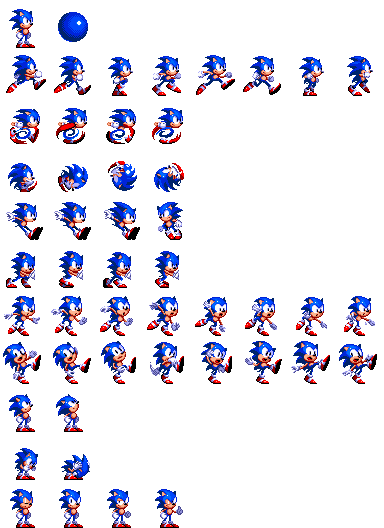
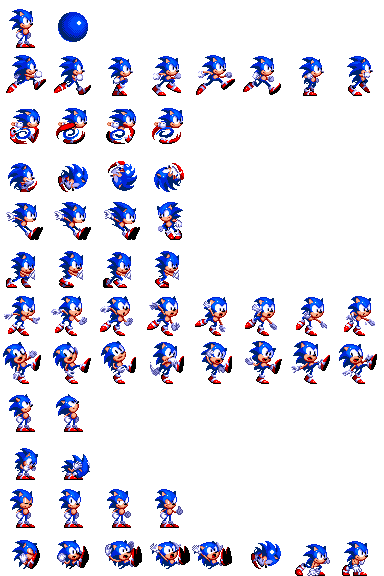
can get hurt

diff --git a/scripts/player/player_update.c b/scripts/player/player_update.c
@@ -20,6 +20,8 @@ void print_status(player *p)
         printf("is_turning\n");
     printf("pos: %0.2f:%0.2f\n", p->obj->pos.x, p->obj->pos.y);
     printf("map_pos: %i:%i\n", p->map_pos.x, p->map_pos.y);
+    if (p->is_hurt == sfTrue)
+        printf("is_hurt\n");
 }
 
 void invisible_walls(player *p, game *g)
@@ -72,13 +74,23 @@ void update_player(player *p, game *g)
         p->goal_reached = sfTrue;
     if (g->paused == sfFalse) {
         camera_adjustments(p, g, sfTrue);
+        if (p->is_hurt)
+            p->obj->pos.x -= p->cooldown / 10;
+        p->cooldown--;
+        if (p->speed_x >= 0 && p->is_hurt == sfTrue) {
+            p->speed_x = 0;
+            if (p->cooldown <= 0)
+                p->is_hurt = sfFalse;
+        }
         misc(p);
         invisible_walls(p, g);
+        for (int i = 0; i < 1; i++)
+            enemy_collision(p, &g->e[i], g);
         movement(p, g);
         raycast(p, g);
         gravity(p);
         animate(p);
-        print_status(p);
+        //print_status(p);
         camera_adjustments(p, g, sfFalse);
         if (p->speed_y >= 1 && p->speed_y <= 2)
             sfMusic_stop(p->jump_sound);

diff --git a/include/my_runner.h b/include/my_runner.h
@@ -22,6 +22,7 @@
     #define LOOKING 8
     #define CROUCHING 9
     #define THUMBSUP 10
+    #define HURTING 11
     #include <SFML/Graphics.h>
     #include <SFML/System.h>
     #include <SFML/Audio.h>
@@ -92,12 +93,14 @@ typedef struct player {
     sfBool is_grounded;
     sfBool can_move;
     sfBool goal_reached;
+    sfBool is_hurt;
     int is_edging;
     int anim_state;
-    animation anim[11];
+    animation anim[12];
     int running_anim;
     int anim_frame;
     sfMusic *jump_sound;
+    int cooldown;
 } player;
 
 game create_game();
@@ -120,5 +123,6 @@ char **create_map(char *filepath, game *g);
 void update_enemies(game *g, player *p);
 void animate_object(game *g, object *obj, animation anim, int *frame);
 void update_background(game *g, player *p);
+void enemy_collision(player *p, enemy *e, game *g);
 
 #endif /* MY_RUNNER_H_ */

diff --git a/scripts/player/player_create.c b/scripts/player/player_create.c
@@ -23,6 +23,7 @@ player create_animations(player p)
     create_animation(&p.anim[LOOKING], 2, 10, sfFalse);
     create_animation(&p.anim[CROUCHING], 2, 10, sfFalse);
     create_animation(&p.anim[THUMBSUP], 4, 10, sfFalse);
+    create_animation(&p.anim[HURTING], 8, 7, sfFalse);
     return p;
 }
 
@@ -37,6 +38,7 @@ player create_bools(player p)
     p.is_crouching = sfFalse;
     p.is_looking = sfFalse;
     p.goal_reached = sfFalse;
+    p.is_hurt = sfFalse;
     return p;
 }
 
@@ -53,6 +55,7 @@ player create_player()
     p.map_pos.x = 0;
     p.map_pos.y = 0;
     p.is_edging = 0;
+    p.cooldown = 0;
     p = create_bools(p);
     p = create_animations(p);
     p.jump_sound = sfMusic_createFromFile("art/jump.wav");

diff --git a/scripts/player/collision.c b/scripts/player/collision.c
@@ -60,3 +60,18 @@ void wall_collision(player *p, game *g)
             p->can_move = sfFalse;
         }
 }
+
+void enemy_collision(player *p, enemy *e, game *g)
+{
+    if ((p->obj->pos.x >= e->obj->pos.x - 10 + g->camera_pan_x
+    && p->obj->pos.x <= e->obj->pos.x + 10 + g->camera_pan_x)
+    && (p->obj->pos.y >= e->obj->pos.y - 10
+    && p->obj->pos.y <= e->obj->pos.y + 10)
+    && p->is_hurt == sfFalse) {
+        if (p->anim_state != JUMPING) {
+            p->is_hurt = sfTrue;
+            p->speed_x = 0;
+            p->cooldown = 7 * 8;
+        }
+    }
+}

diff --git a/scripts/enemy.c b/scripts/enemy.c
@@ -16,5 +16,6 @@ void update_enemies(game *g, player *p)
         g->e[i].obj->pos.x -= g->camera_pan_x + g->camera_pan_speed;
         sfSprite_setPosition(g->e[i].obj->spr, g->e[i].obj->pos);
         sfRenderWindow_drawSprite(g->window, g->e[i].obj->spr, NULL);
+        //printf("enemypos = %.2f:%.2f\n", g->e[i].obj->pos.x, g->e[i].obj->pos.y);
     }
 }

diff --git a/scripts/animation.c b/scripts/animation.c
@@ -29,8 +29,11 @@ void choose_anim_state(player *p)
         p->anim_state = JUMPING;
     if (p->can_move == sfFalse && p->anim_state == WALKING)
         p->anim_state = PUSHING;
+    if (p->is_hurt == sfTrue)
+        p->anim_state = HURTING;
     if (p->goal_reached == sfTrue)
         p->anim_state = THUMBSUP;
+
 }
 
 void animate(player *p)
